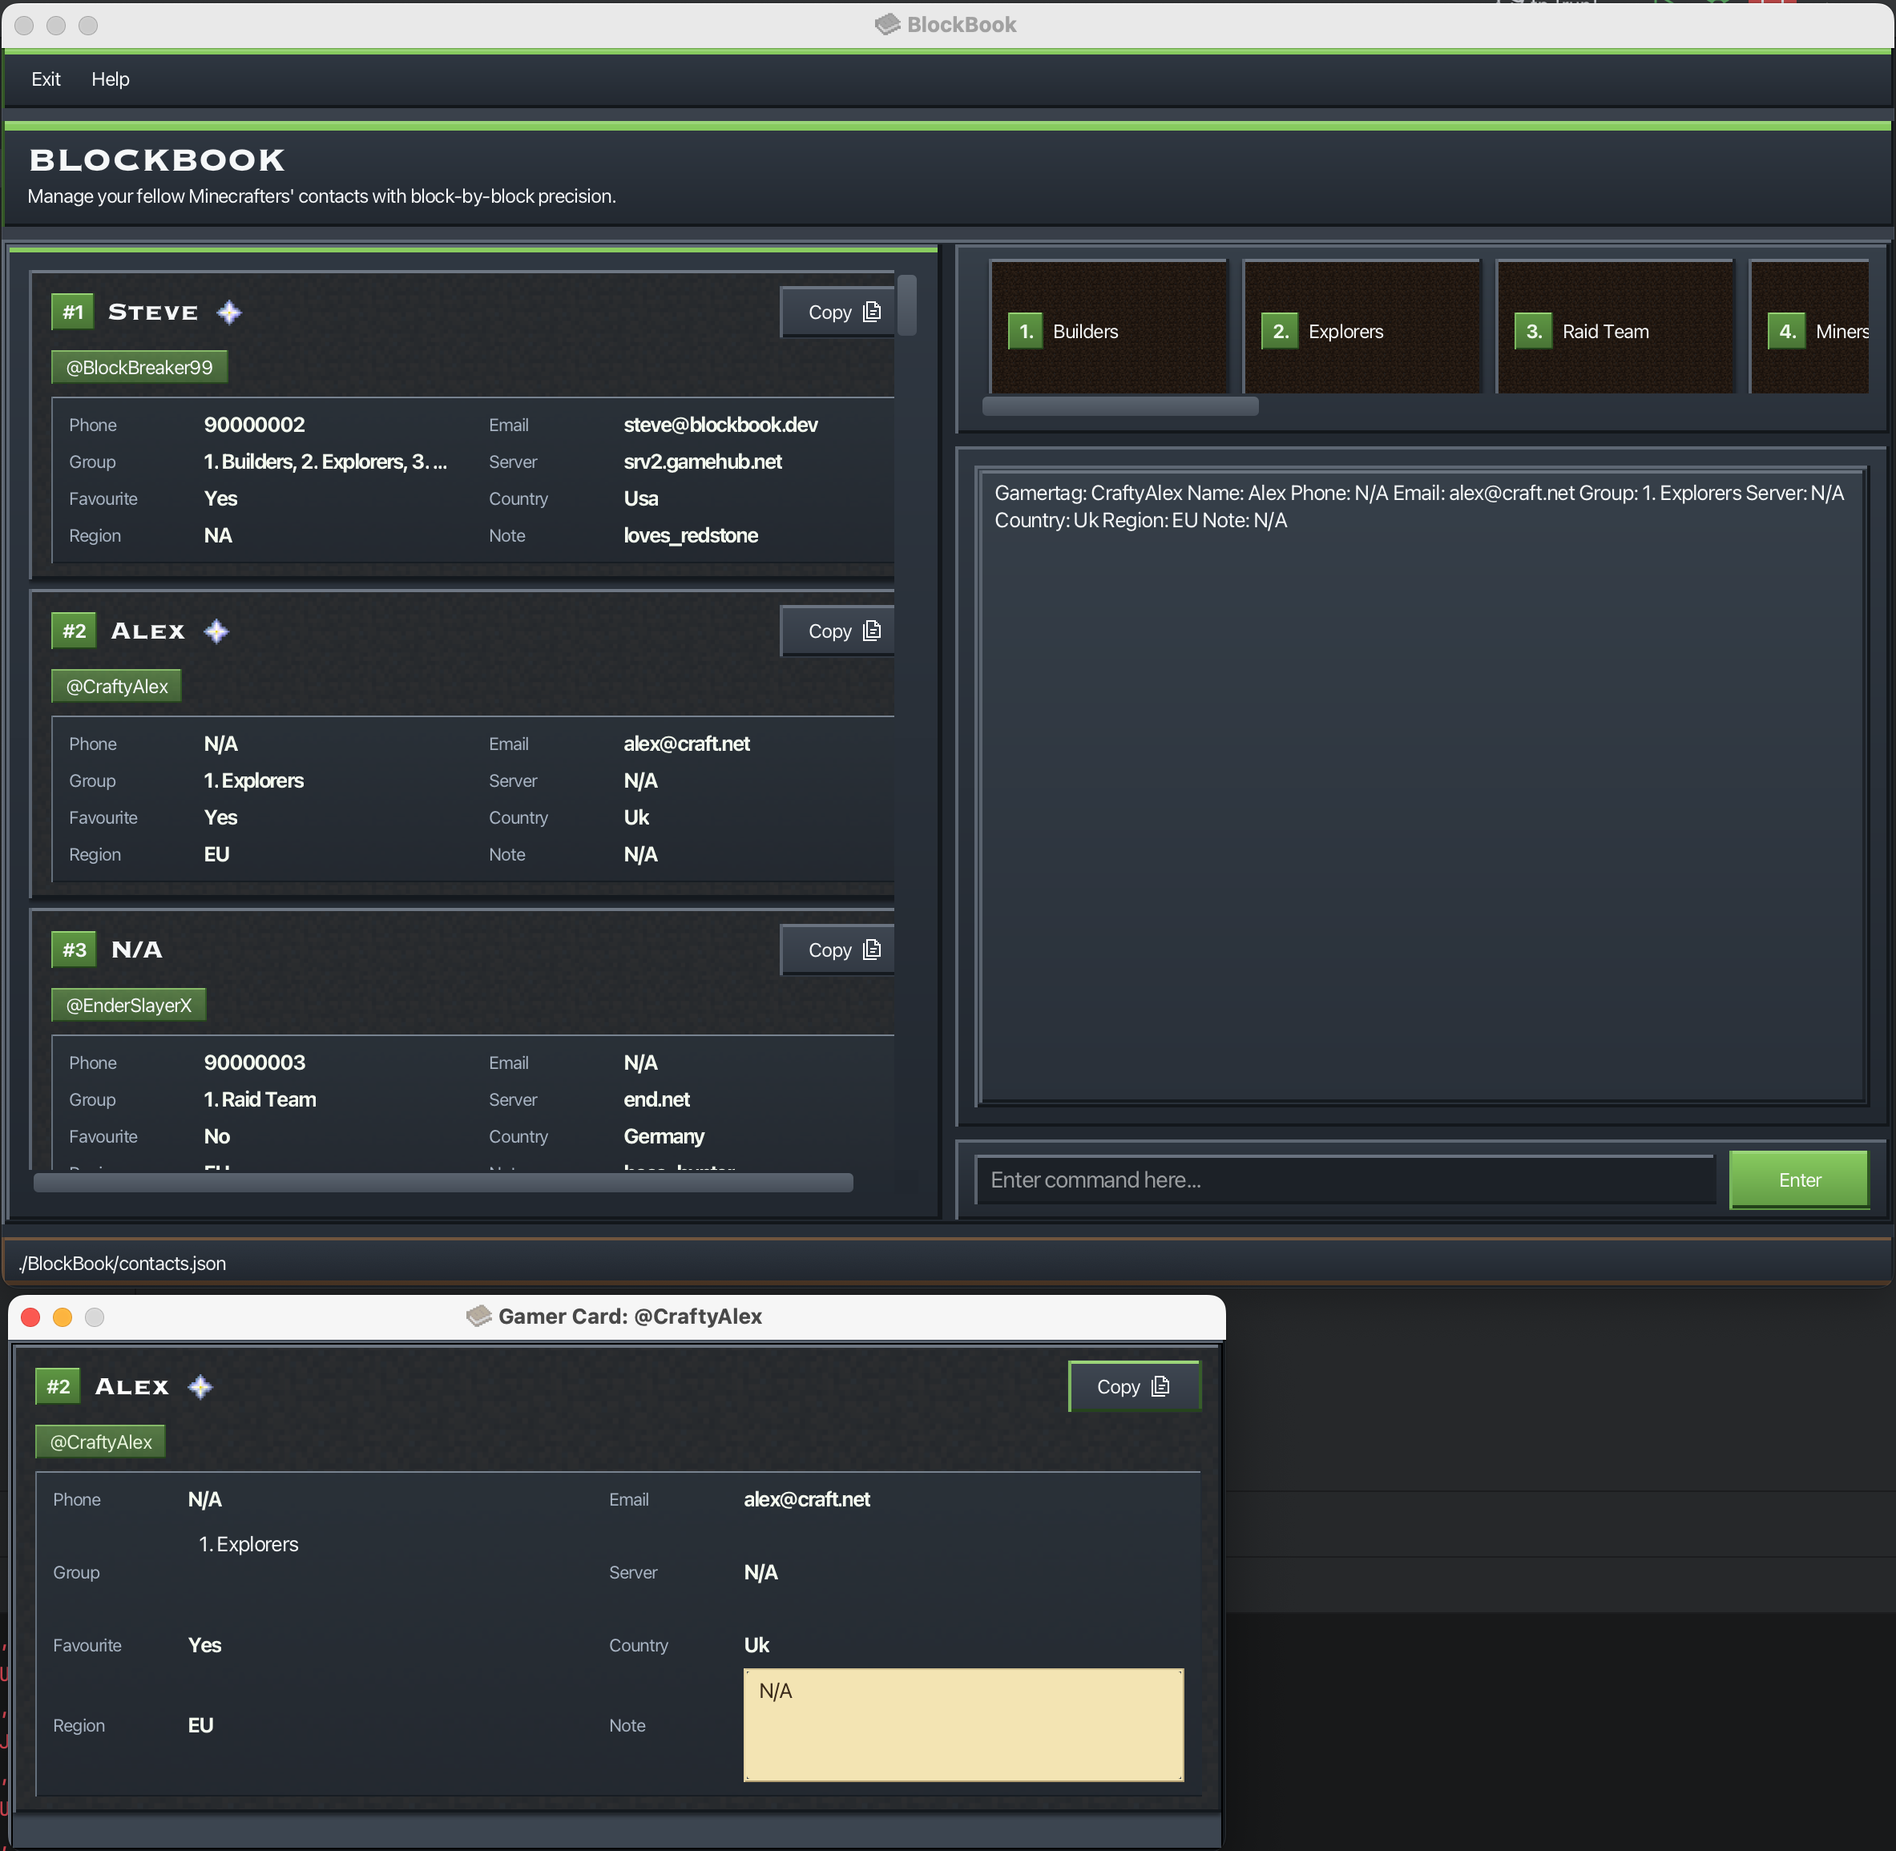
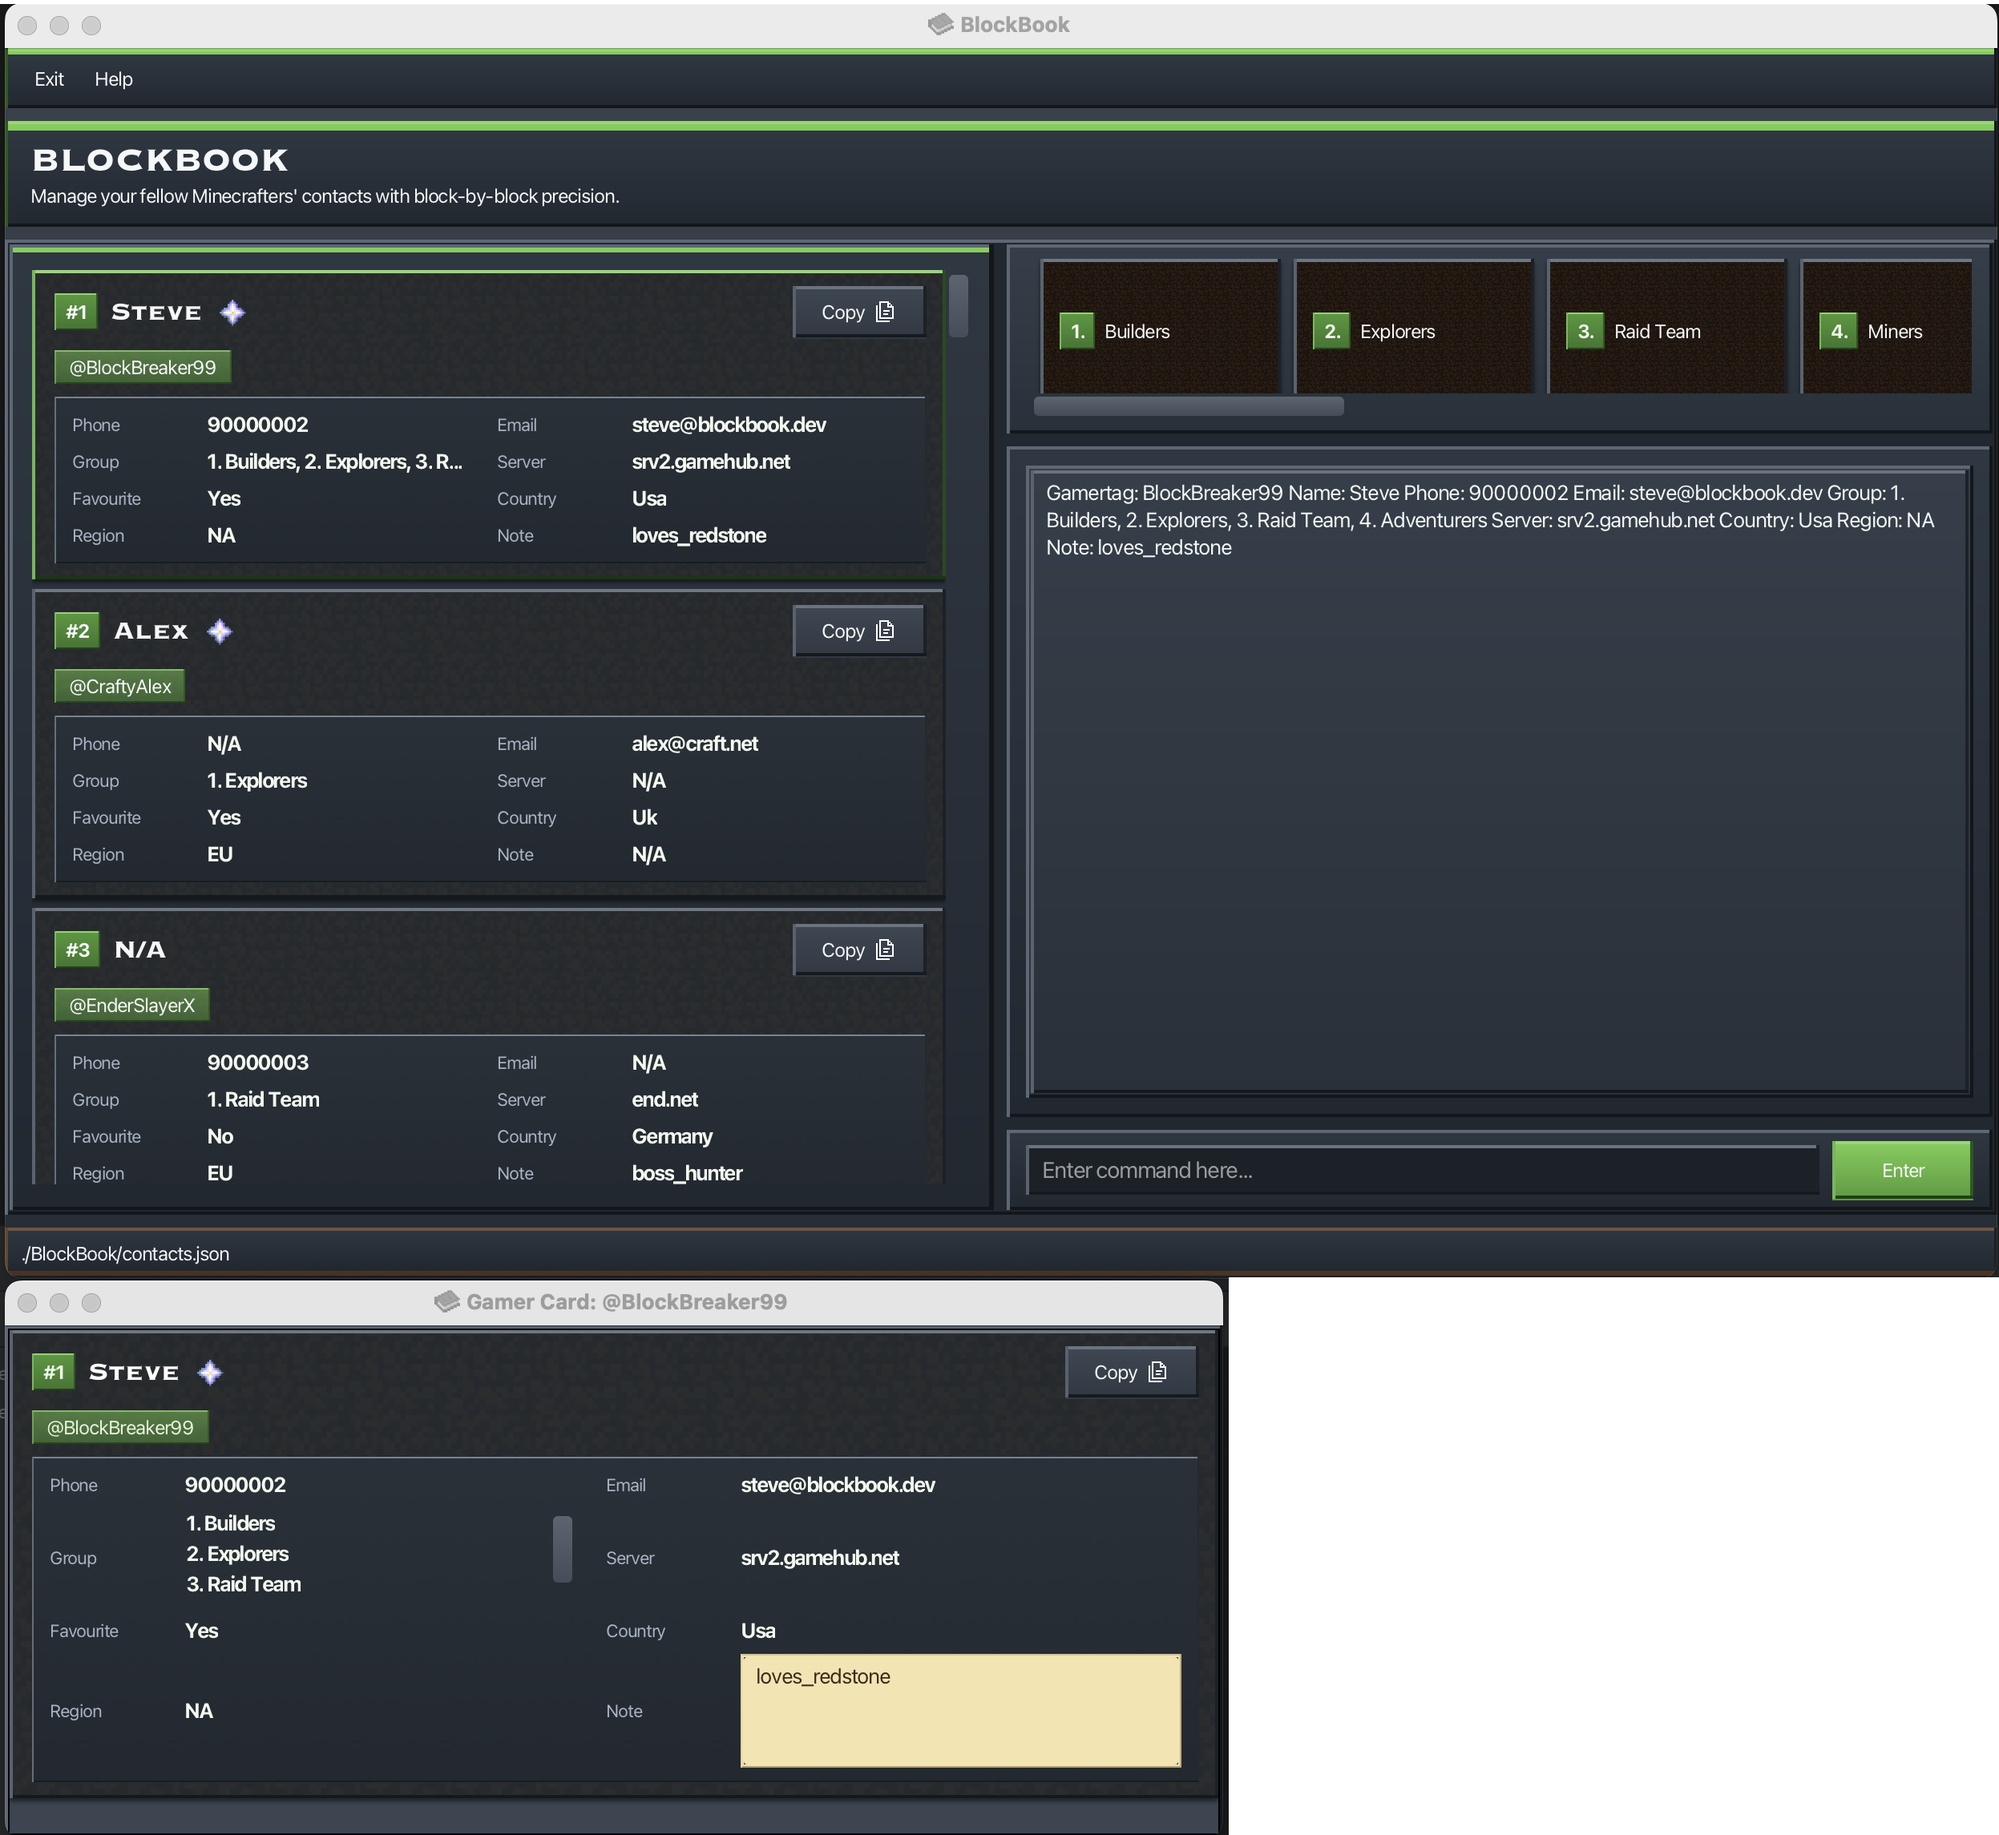
Update view pop up to fix group visual issue and update image.

diff --git a/src/main/resources/view/DarkTheme.css b/src/main/resources/view/DarkTheme.css
@@ -279,12 +279,16 @@
 }
 
 .popup-group-list {
-    -fx-padding: 4 6 4 6;
+    -fx-padding: 0;
+    -fx-alignment: CENTER_LEFT;
+    -fx-fill-height: true;
 }
 
 .popup-group-item {
-    -fx-text-fill: -fx-mc-text-main;
+    -fx-font-family: "Lucida Console", "Courier New", "Monospaced";
     -fx-font-size: 13px;
+    -fx-font-weight: bold;
+    -fx-text-fill: #f4faef;
 }
 
 .cell_index_label {
